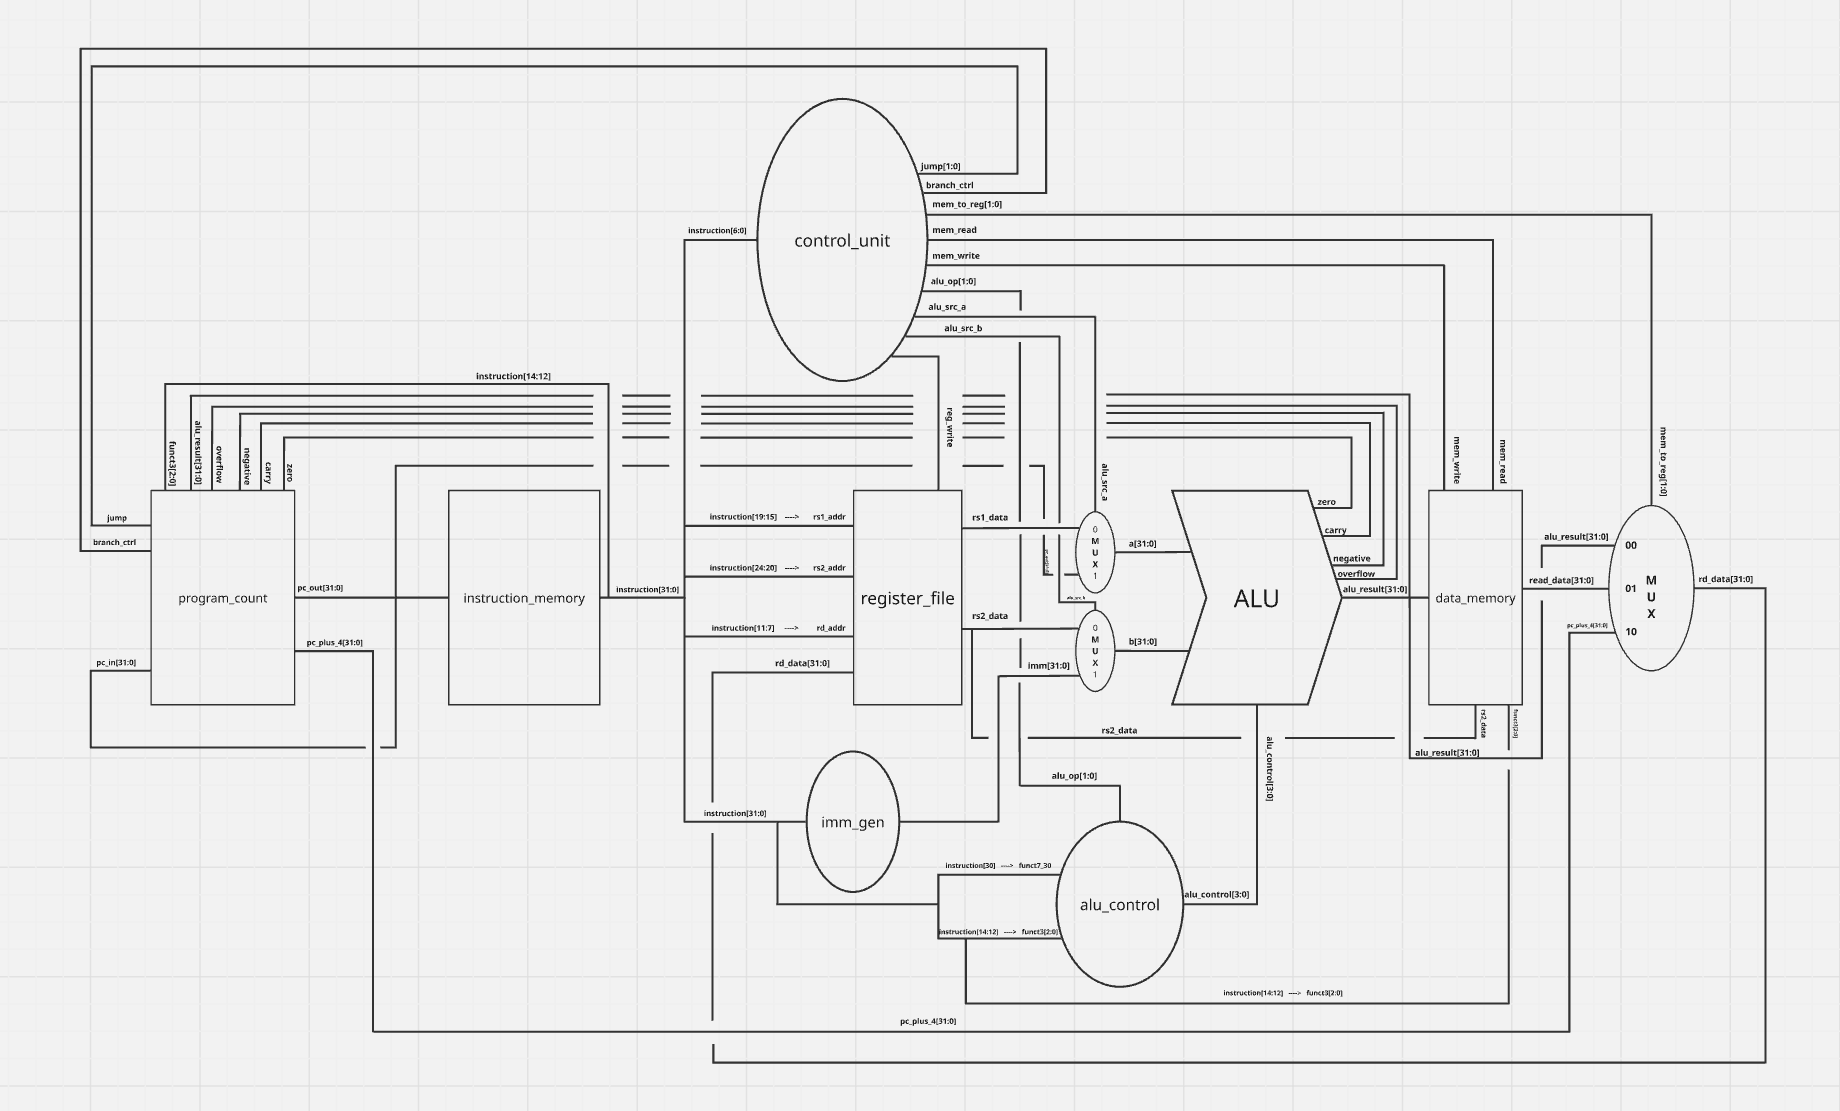
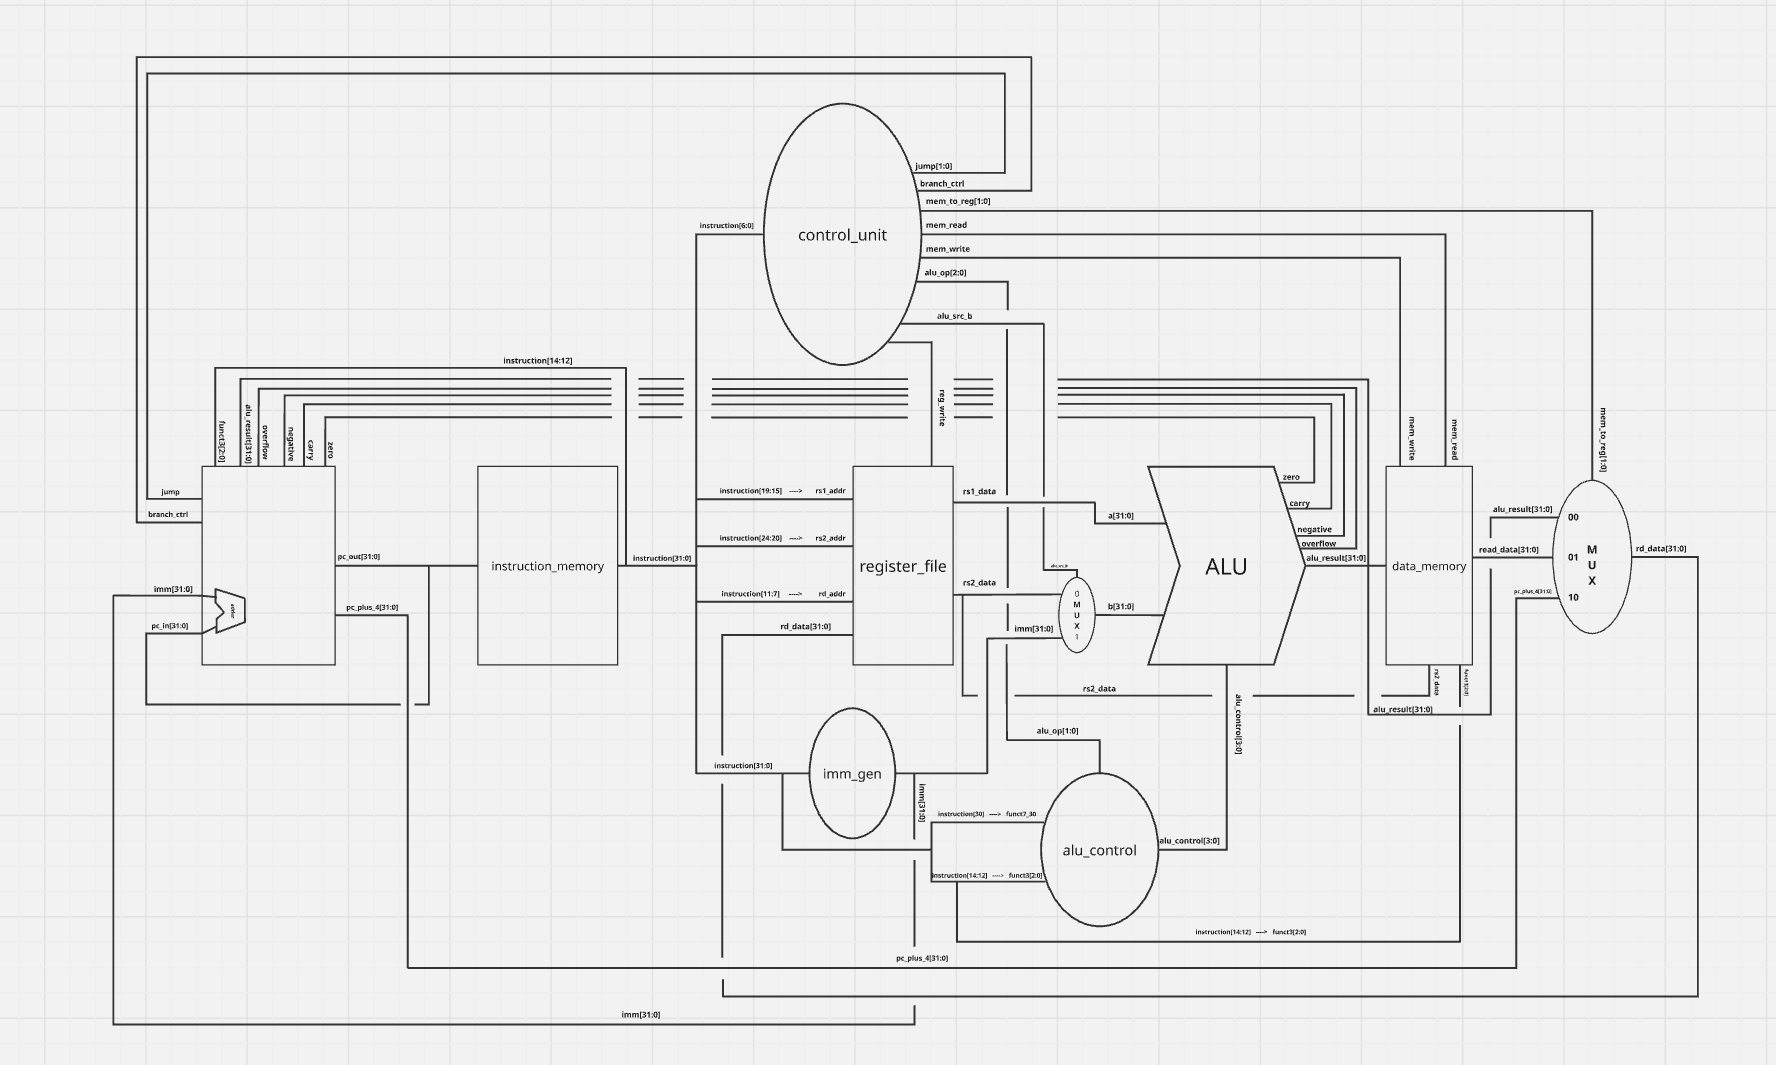
update README.md with new datapath diagram

Changed region(s): [[0.031, 0.031, 0.96, 0.9606]]

diff --git a/README.md b/README.md
@@ -1,6 +1,6 @@
 # RISC-V CPU
  
-A RV32I RISC-V processor implementation written in SystemVerilog. Work in progress. Core datapath complete, still working on verification.
+A RV32I RISC-V processor implementation written in SystemVerilog. Work in progress. Core datapath complete, still working on verification of single-cycle implementation.
  
 ## Status
  
@@ -19,6 +19,8 @@ Modules implemented with passing testbenches:
 Each module has a corresponding testbench for simulation-based verification.
 Currently verifying full RV32I instruction set in simulation (cpu_top module and its testbench).
 Not yet synthesized to hardware.
+
+Currently using assembly_program_test_1.txt (the machine code version inputed into instruction memory is program_test_1.mem) to test cpu_top.
 
 ## Architecture
 
